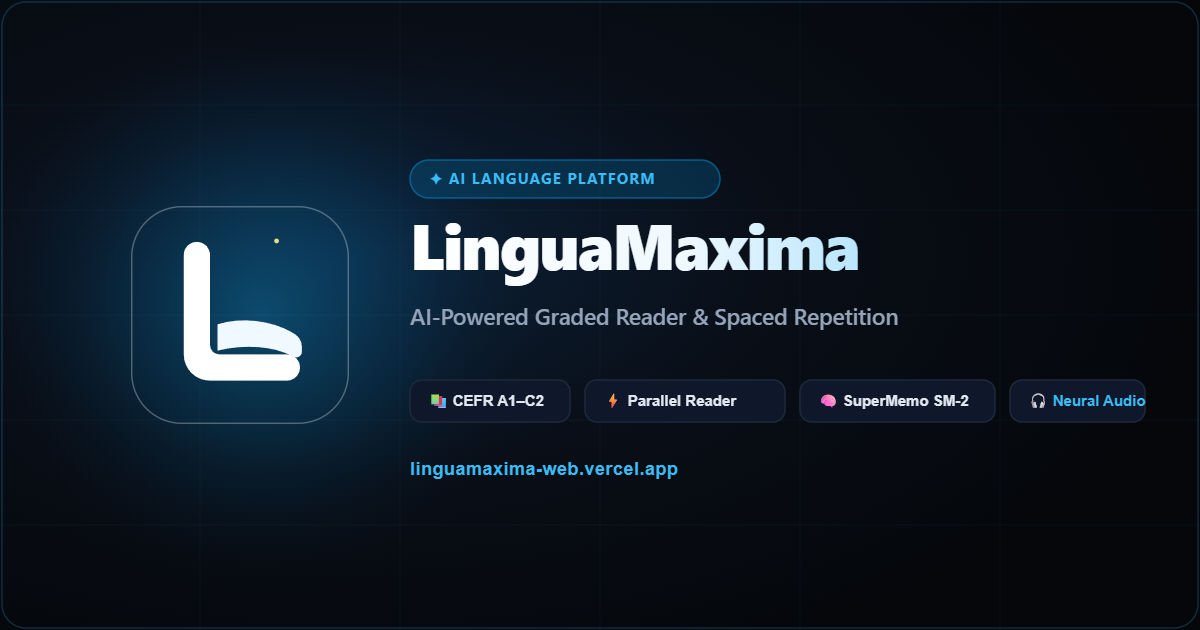
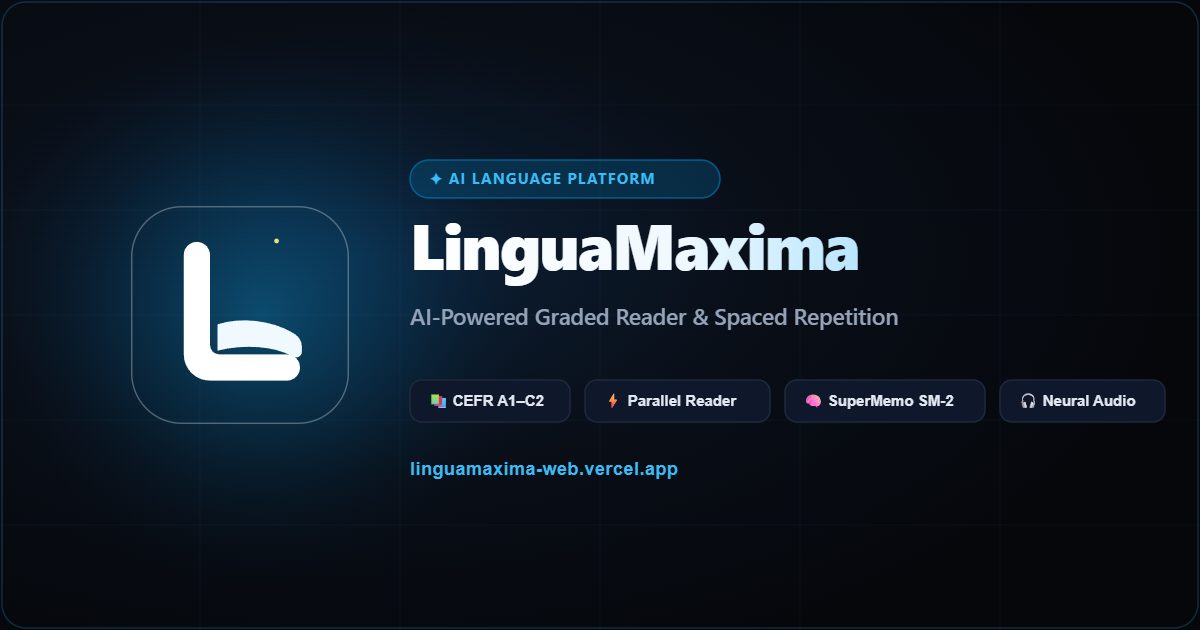
fix(web): widen neural audio pill and adjust spacing on og-image

Changed region(s): [[0.6475, 0.6032, 0.9867, 0.6635]]

diff --git a/apps/web/scripts/render-assets.html b/apps/web/scripts/render-assets.html
@@ -351,7 +351,7 @@
               <rect
                 x="0"
                 y="0"
-                width="200"
+                width="185"
                 height="42"
                 rx="12"
                 fill="#0f172a"
@@ -371,11 +371,11 @@
             </g>
 
             <!-- Pill 3: SM-2 Spaced Repetition -->
-            <g transform="translate(390, 0)">
+            <g transform="translate(375, 0)">
               <rect
                 x="0"
                 y="0"
-                width="195"
+                width="200"
                 height="42"
                 rx="12"
                 fill="#0f172a"
@@ -394,12 +394,12 @@
               </text>
             </g>
 
-            <!-- Pill 4: Neural TTS -->
-            <g transform="translate(600, 0)">
+            <!-- Pill 4: Neural Audio -->
+            <g transform="translate(590, 0)">
               <rect
                 x="0"
                 y="0"
-                width="135"
+                width="165"
                 height="42"
                 rx="12"
                 fill="#0f172a"
@@ -409,7 +409,7 @@
               <text
                 x="18"
                 y="26"
-                fill="#38bdf8"
+                fill="#e2e8f0"
                 font-family="sans-serif"
                 font-size="15"
                 font-weight="600"
